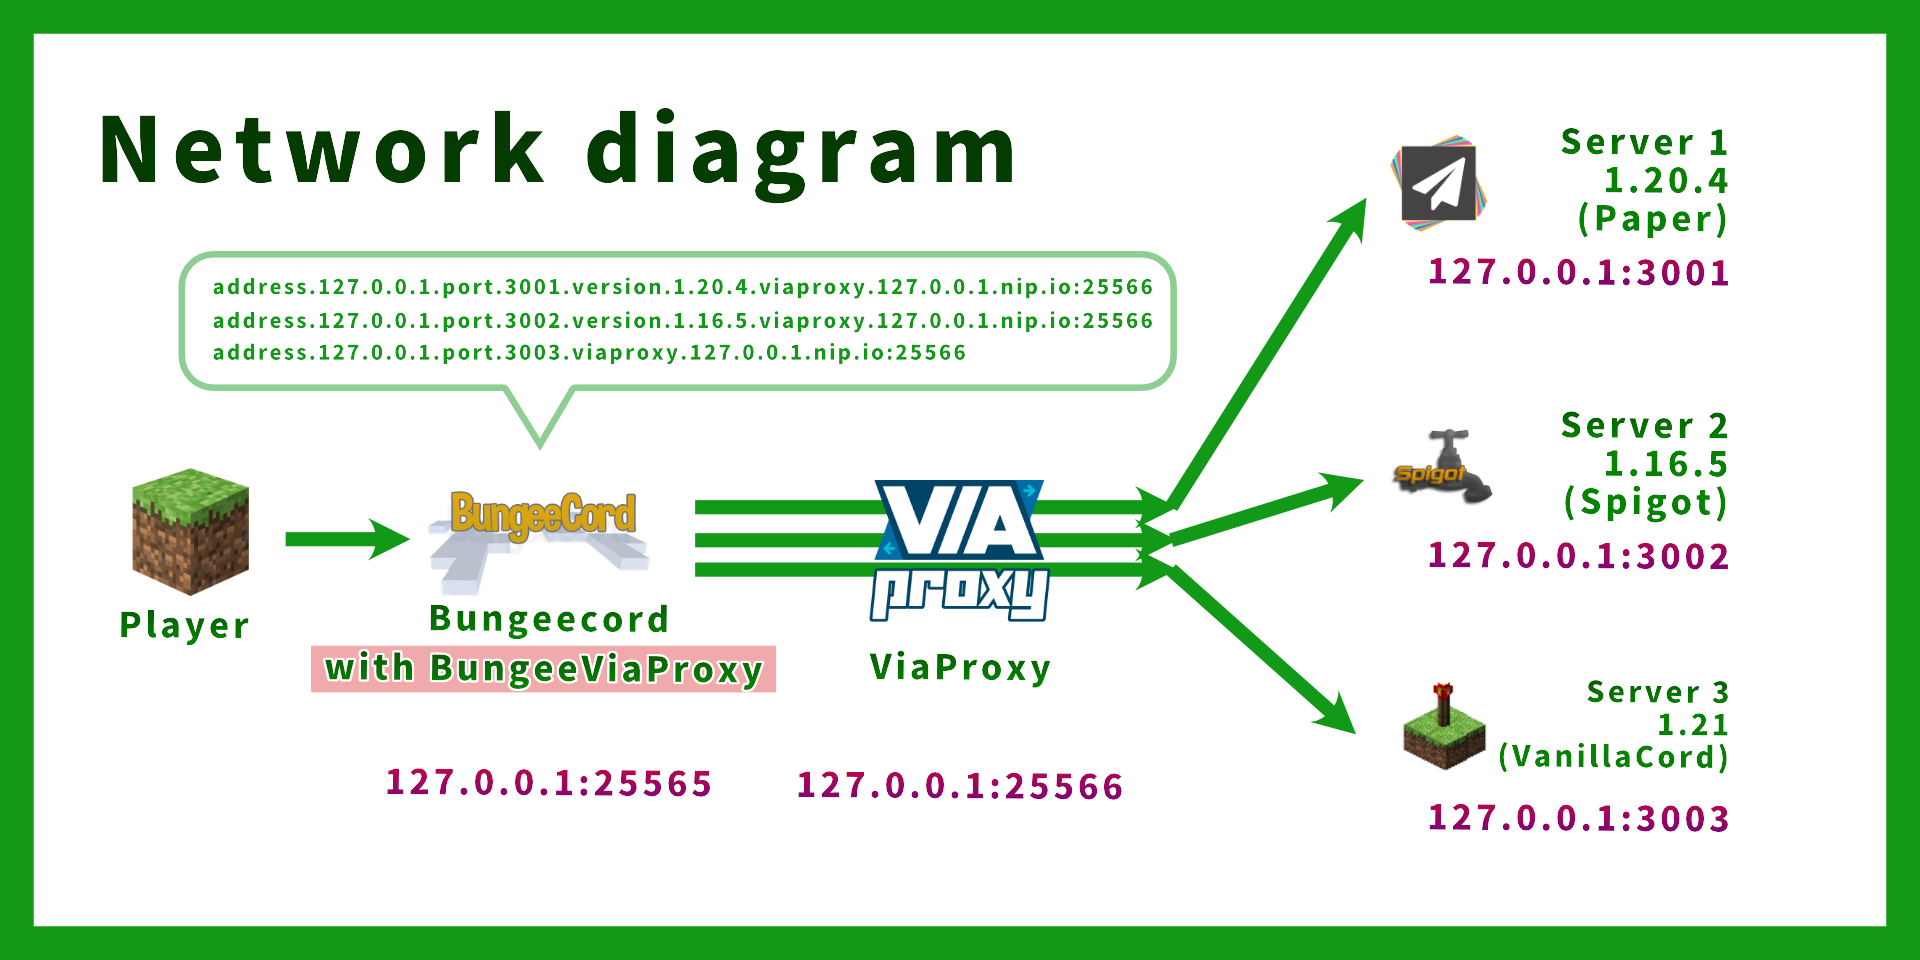
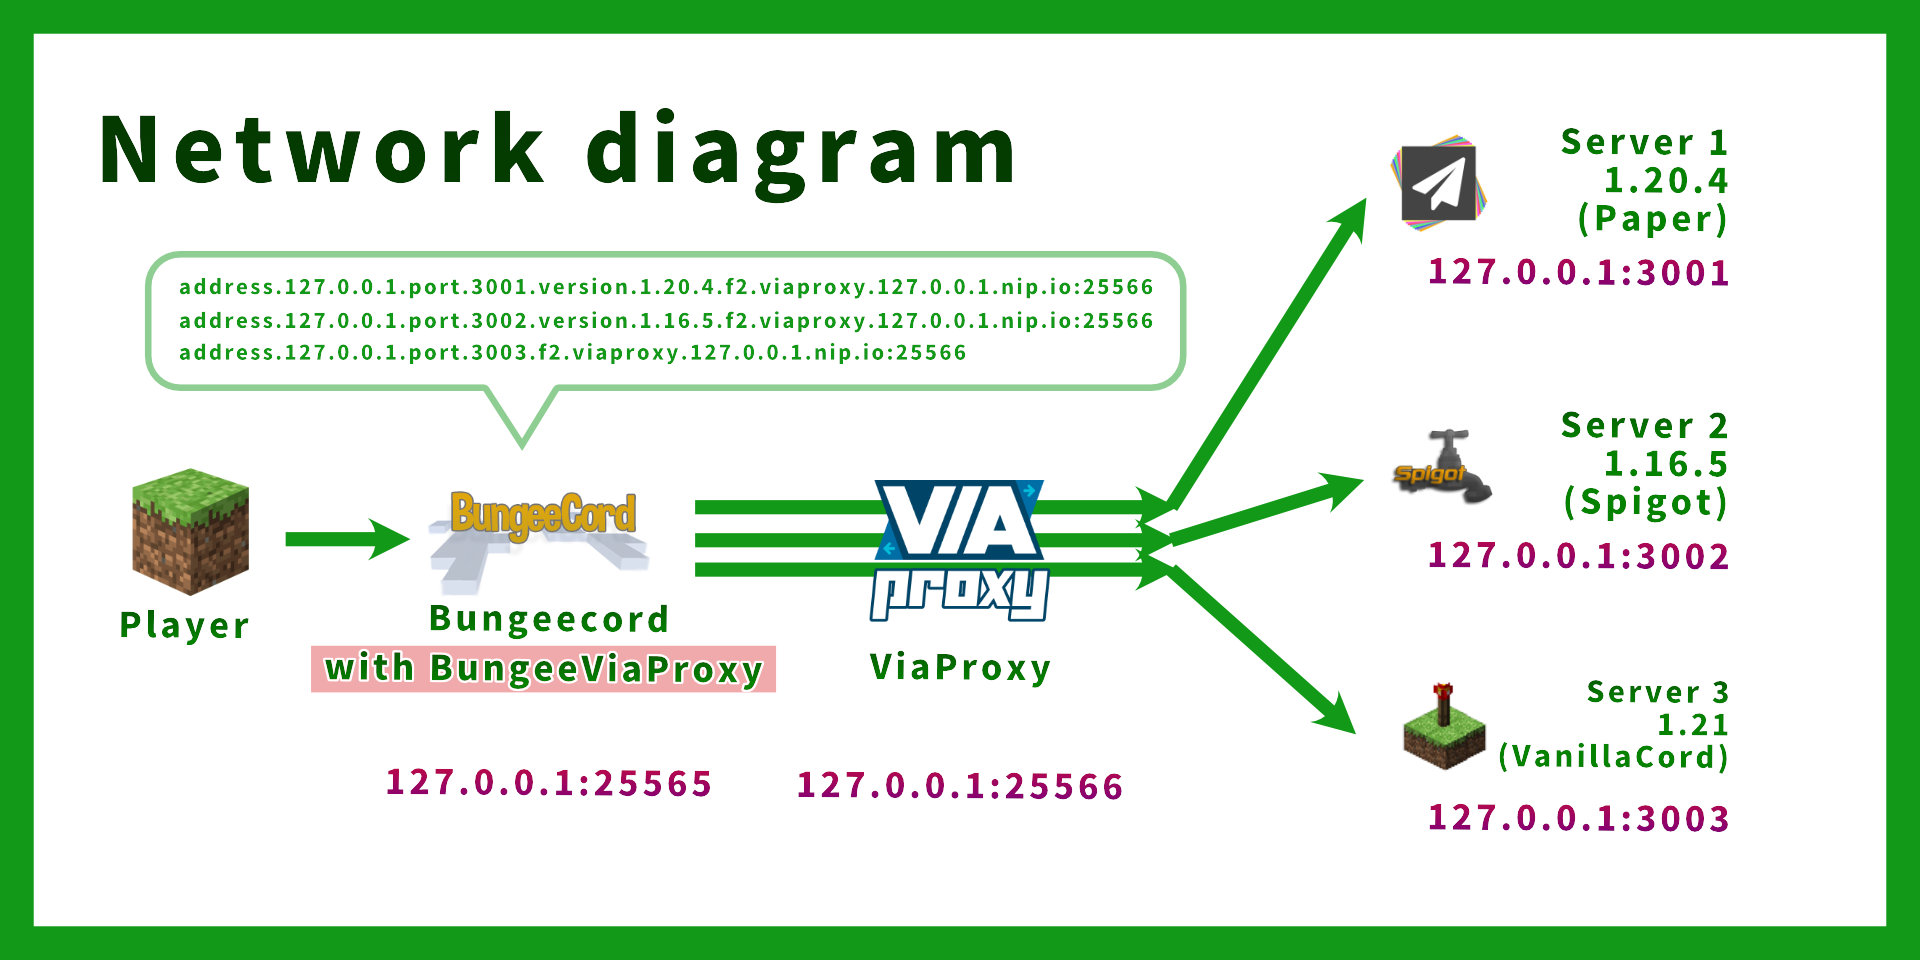
Update README

diff --git a/README.md b/README.md
@@ -1,22 +1,39 @@
 # BungeeViaProxy
 
-## Overview
+## TL;DR
 
-**BungeeViaProxy** is a BungeeCord plugin designed to address compatibility issues when using [ViaProxy](https://github.com/ViaVersion/ViaProxy) with [BungeeCord](https://github.com/SpigotMC/BungeeCord).  
-This plugin is especially useful for networks with multiple backend servers running different Minecraft versions, where you want to minimize the overhead of maintaining ViaVersion plugins on each backend server.
+**BungeeViaProxy** is a [BungeeCord](https://github.com/SpigotMC/BungeeCord) plugin that fixes compatibility issues with [ViaProxy](https://github.com/ViaVersion/ViaProxy), enabling you to manage multiple backend servers running different Minecraft versions using a single ViaProxy instance.  
 
-ViaBungee support was discontinued as of Minecraft 1.20.2, making it necessary to migrate to ViaProxy for compatibility with newer versions of the game.  
-This guide is valuable for those who wish to continue using BungeeCord with the latest Minecraft versions while avoiding the burden of individually updating ViaVersion on each backend server.  
+- **Why?**  
+  [ViaBungee](https://github.com/ViaVersion/ViaBungee) was discontinued in Minecraft 1.20.2. To continue using BungeeCord with the latest Minecraft versions, you need ViaProxy.  
+  However, ViaProxy introduces challenges when combined with BungeeCord, such as improper hostname forwarding and duplicate server errors.  
 
-By leveraging ViaProxy with wildcard-domain-handling, a single ViaProxy instance can support multiple backend servers, simplifying updates and reducing resource usage.
+- **How does it help?**  
+  BungeeViaProxy resolves these issues by ensuring correct hostname forwarding and avoiding duplicate server errors, allowing seamless integration of ViaProxy and BungeeCord.
+
+- **Who should use this?**  
+  Server administrators running networks with BungeeCord and multiple backend servers that need version translation via ViaProxy, but want to avoid the complexity of managing [ViaVersion](https://github.com/ViaVersion/ViaVersion) on each backend server.
+
+![Network Diagram](./assets/diagram.png)
 
 ## Table of Contents
+- [Overview](#overview)
 - [Use Case](#use-case)
 - [How It Works](#how-it-works)
 - [Features](#features)
 - [Installation](#installation)
 - [Configuration](#configuration)
 - [Example Configuration](#example-configuration)
+
+## Overview
+
+**BungeeViaProxy** is a BungeeCord plugin designed to address compatibility issues when using [ViaProxy](https://github.com/ViaVersion/ViaProxy) with [BungeeCord](https://github.com/SpigotMC/BungeeCord).  
+This plugin is especially useful for networks with multiple backend servers running different Minecraft versions, where you want to minimize the overhead of maintaining ViaVersion plugins on each backend server.
+
+[ViaBungee](https://github.com/ViaVersion/ViaBungee) support was discontinued as of Minecraft 1.20.2, making it necessary to migrate to ViaProxy for compatibility with newer versions of the game.  
+This guide is valuable for those who wish to continue using BungeeCord with the latest Minecraft versions while avoiding the burden of individually updating [ViaVersion](https://github.com/ViaVersion/ViaVersion) on each backend server.  
+
+By leveraging ViaProxy with wildcard-domain-handling, a single ViaProxy instance can support multiple backend servers, simplifying updates and reducing resource usage.
 
 ## Use Case
 
@@ -42,7 +59,7 @@ To address this, ViaProxy supports the `wildcard-domain-handling` feature, allow
 This is achieved by using a specific address format for each backend server:
 
 ```
-address.<backend-ip>.port.<backend-port>.version.<backend-version>.viaproxy.<viaproxy-ip>.nip.io:<viaproxy-port>
+address.<backend-ip>.port.<backend-port>.version.<backend-version>.f2.viaproxy.<viaproxy-ip>.nip.io:<viaproxy-port>
 ```
 
 These addresses can then be listed in the `config.yml` of BungeeCord, enabling seamless connection management through a single ViaProxy instance.  
@@ -64,11 +81,9 @@ However, this setup introduces certain challenges, which BungeeViaProxy resolves
 
 ## Configuration
 
-No additional configuration is required. BungeeViaProxy automatically handles `.viaproxy.` addresses and ensures proper server routing.
+No additional configuration is required. BungeeViaProxy automatically handles `.f2.viaproxy.` addresses and ensures proper server routing.
 
 ## Example Configuration
-
-![Network Diagram](./assets/diagram.png)
 
 Here is an example of how to configure BungeeCord to work with ViaProxy using wildcard-domain-handling
 
@@ -86,20 +101,20 @@ BungeeCord `config.yml` (only relevant options are shown):
 online_mode: true
 servers:
   server1:
-    # ViaProxy address format: address.<backend-ip>.port.<backend-port>.version.<backend-version>.viaproxy.<viaproxy-ip>.nip.io:<viaproxy-port>
-    address: address.127.0.0.1.port.3001.version.1.20.4.viaproxy.127.0.0.1.nip.io:25566
+    # ViaProxy address format: address.<backend-ip>.port.<backend-port>.version.<backend-version>.f2.viaproxy.<viaproxy-ip>.nip.io:<viaproxy-port>
+    address: address.127.0.0.1.port.3001.version.1.20.4.f2.viaproxy.127.0.0.1.nip.io:25566
     motd: '&1Example Server 1'
     restricted: false
   server2:
     # In this example,
     # Backend server IP: 127.0.0.1:25566
     # ViaProxy IP: 127.0.0.1:3002
-    address: address.127.0.0.1.port.3002.version.1.16.5.viaproxy.127.0.0.1.nip.io:25566
+    address: address.127.0.0.1.port.3002.version.1.16.5.f2.viaproxy.127.0.0.1.nip.io:25566
     motd: '&1Example Server 1'
     restricted: false
   server3:
     # Version can be omitted if not needed (version is automatically detected by ViaProxy)
-    address: address.127.0.0.1.port.3003.viaproxy.127.0.0.1.nip.io:25566
+    address: address.127.0.0.1.port.3003.f2.viaproxy.127.0.0.1.nip.io:25566
     motd: '&1Example Server 3 (".version.1.20.4" can be omitted)'
     restricted: false
 listeners:
@@ -131,7 +146,7 @@ auth-method: NONE
 
 # Allows clients to specify a target server and version using wildcard domains.
 # none: No wildcard domain handling.
-# public: Public wildcard domain handling. Intended for usage by external clients. (Example: address.<address>.port.<port>.version.<version>.viaproxy.127.0.0.1.nip.io (version is optional))
+# public: Public wildcard domain handling. Intended for usage by external clients. (Example: address.<address>.port.<port>.version.<version>.f2.viaproxy.127.0.0.1.nip.io (version is optional))
 # internal: Internal wildcard domain handling. Intended for local usage by custom clients. (Example: original-handshake-address\7address:port\7version\7classic-mppass)
 wildcard-domain-handling: PUBLIC
 ```
